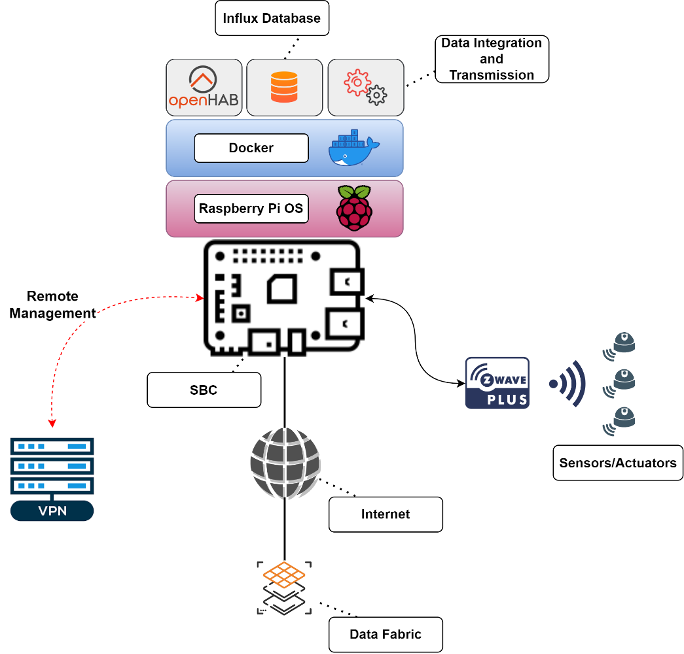
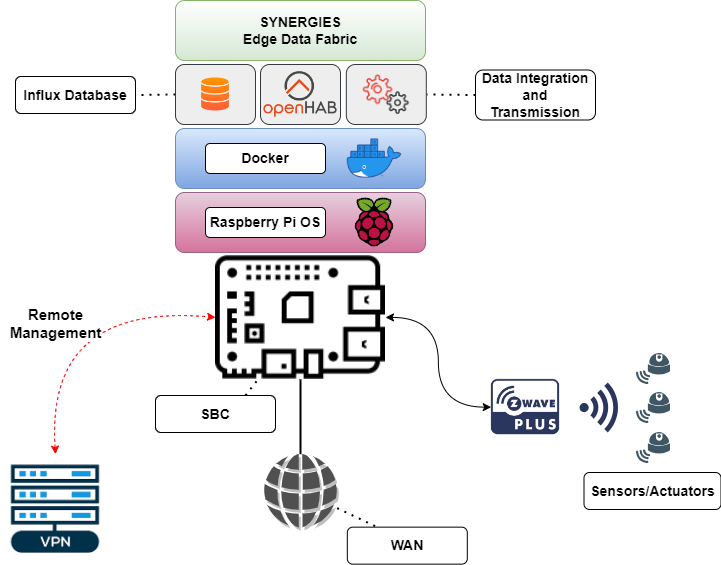
README.md

diff --git a/README.md b/README.md
@@ -1,8 +1,55 @@
 # Synergies-WSN-Deployment
-Developed by the University of Peloponnese for the Synergies project, this streamlined repository provides configuration files, scripts, and documentation for the easy deployment and management of the Wireless Sensor Netowrk (WSN) in the project's energy data collection system.
 
+Developed by the University of Peloponnese for the Synergies project, this streamlined repository provides configuration files, scripts, and documentation for the easy deployment and management of the Wireless Sensor Network (WSN) in the project's energy data collection system.
 
-### WSN Architecture
+## WSN Architecture
+
 The WSN architecture forms the foundation of the Wireless Sensor Network solution, providing a robust and scalable framework for data collection, analysis, and management. The following image shows the high-level architecture of the WSN.
 
 ![WSN Architecture](misc/wsn.png?raw=true "WSN Architecture")
+
+## Overview
+
+This repository includes scripts and configuration files for the automated deployment of the Synergies WSN. It streamlines the process of setting up and managing the WSN components, ensuring a consistent and reliable deployment across different environments.
+
+## Features
+
+- **Automated Deployment:** The deployment process automatically installs the necessary packages, eliminating the need for manual intervention.
+
+- **Z-Wave Network Integration:** Utilize the Z-Wave network for efficient and reliable communication among sensors and actuators.
+
+- **OpenHab Integration:** OpenHab serves as the central hub for the WSN, providing a versatile platform for data processing and management.
+
+- **SYNERGIES Edge Integration:** The Single Board Computer (SBC) acts as the SYNERGIES EDGE, creating Docker containers for seamless integration with the SYNERGIES Edge Data Fabric.
+
+- **Remote Management:** The deployment process establishes a VPN connection to a UoP server, enabling remote management capabilities.
+
+## Usage
+
+1. **Clone this repository:**
+
+   ```bash
+   git clone https://github.com/uopeloponnese/Synergies-WSN-Deployment.git
+
+
+2. **Change to the directory of the downloaded repository:**
+
+   ```bash
+   cd Synergies-WSN-Deployment
+
+3. **Make the script executable:**
+
+   ```bash
+   chmod +x deploy.sh
+
+4. **Execute the script:**
+
+   ```bash
+   ./deploy.sh GRC-XXX wsn.uopcloud.net 62832 my_password
+   
+*[NOTE: The site ID (GRC-XXX) and the vpn password will be provided by the UoP WSN Technical Consultant upon request]*
+   
+
+## License
+
+This project is licensed under MIT License.
